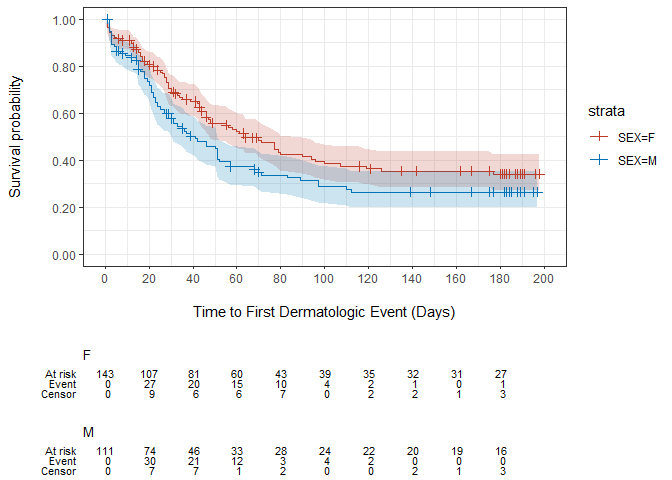
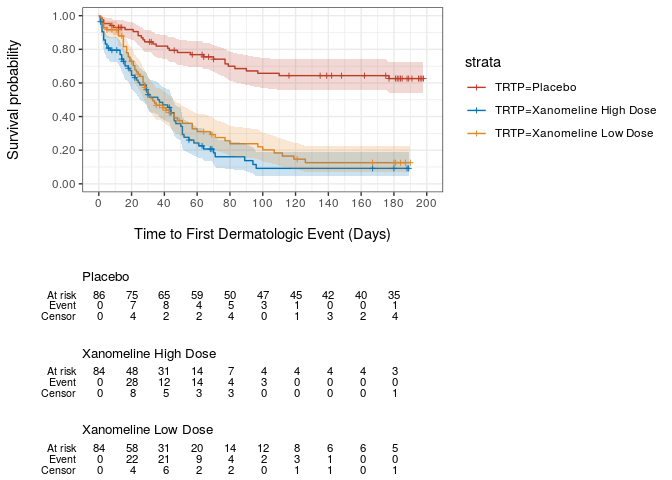
Minor tidy up of readme including change to example to show trt diffs.

diff --git a/README.md b/README.md
@@ -5,7 +5,8 @@
 
 The goal of visR is to enable fit-for-purpose, reusable clinical and
 medical research focused visualizations and tables with sensible
-defaults and based on sound graphical principles.
+defaults and based on sound [graphical
+principles](https://graphicsprinciples.github.io/).
 
 [Package documentation](https://openpharma.github.io/visR/)
 
@@ -21,9 +22,15 @@ on
     practices**
 
 We are not judging on what visualisation you chose for your research
-question, but want facilitate to make you do your work as you need it\!
+question, but want facilitate and support good practice.
 
-You can read more about the philosophy and architecture in the repo wiki
+You can read more about the philosophy and architecture in the [repo
+wiki](https://github.com/openpharma/visR/wiki).
+
+## Lifecycle and status
+
+The package is still experimental and under active development with a
+current focus on developing a stable API.
 
 <!-- badges: start -->
 
@@ -36,8 +43,6 @@ You can read more about the philosophy and architecture in the repo wiki
 
 <!-- badges: end -->
 
-.
-
 ## Installation
 
 Install the development version from [GitHub](https://github.com/) with:
@@ -48,8 +53,8 @@ devtools::install_github("openpharma/visR")
 
 ## Example
 
-This is a basic example to demostrate how to plot time to event
-analyses.
+This is a basic example to demonstrate how to plot using the api a time
+to event analysis.
 
 ``` r
 library(visR)
@@ -59,12 +64,12 @@ library(tidyr)
 library(ggplot2)
 
 adtte %>%
-  vr_KM_est(strata = "SEX", conf.int = 0.90) %>%
+  vr_KM_est(strata = "TRTP", conf.int = 0.90) %>%
   vr_plot(legend_position = "right", x_unit = "Days") %>%
   add_CI(alpha = 0.2,
          style = "ribbon",
          linetype = 3) %>%
-  add_CNSR(shape = 3, size = 2) %>%
+  add_CNSR(shape = 3, size = 1) %>%
   add_risktable(
     min_at_risk = 0,
     statlist = c("n.risk", "n.event", "n.censor"),
@@ -74,6 +79,8 @@ adtte %>%
 ```
 
 <img src="man/figures/README-example-1.png" width="100%" />
+
+## Contribution
 
 Please note that the ‘visR’ project is released with a [Contributor Code
 of Conduct](CODE_OF_CONDUCT.md). By contributing to this project, you
